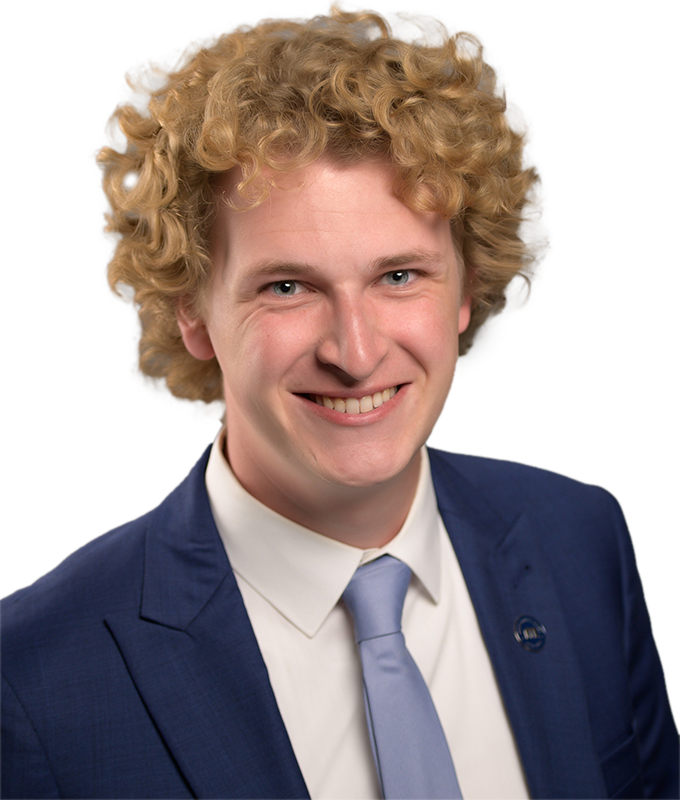
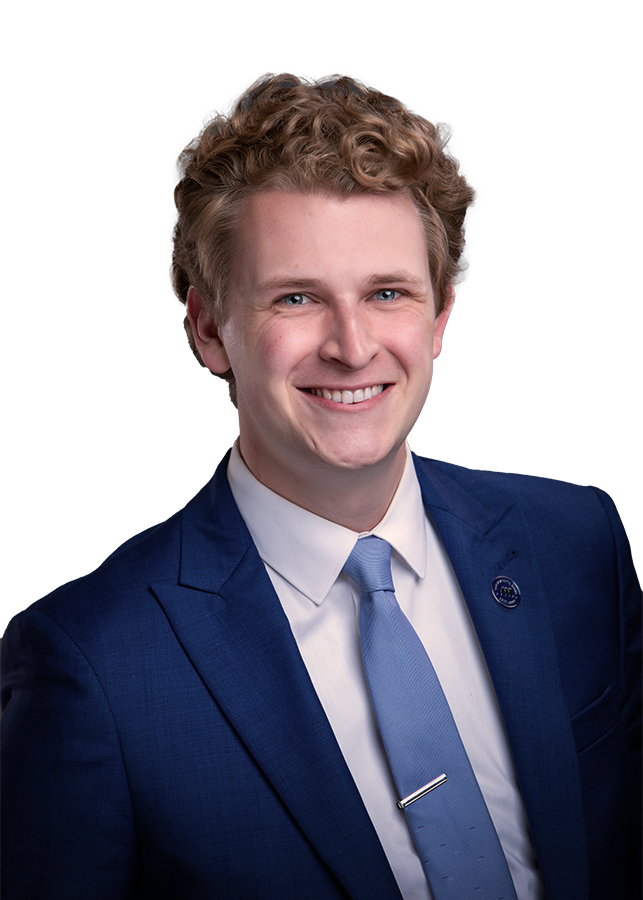
Updated some links and main image

diff --git a/archive-portfolio.html b/archive-portfolio.html
@@ -8,7 +8,7 @@
     <meta name="keywords" content="portfolio, agency, business, clean, company, corporate, creative, gallery, rtl, modern, photography, vue, vuejs, responsive, sass">
 
     <!-- title of the browser tab -->
-    <title>Nafie - HTML Portfolio Template</title>
+    <title>Jacob West Creative</title>
 
     <!-- favicon -->
     <link rel="icon" href="assets/favicon.ico">
@@ -16,7 +16,7 @@
     <!-- fonts -->
     <link rel="preconnect" href="https://fonts.googleapis.com">
     <link rel="preconnect" href="https://fonts.gstatic.com" crossorigin>
-    <link rel="stylesheet" href="https://fonts.googleapis.com/css2?family=Poppins:wght@700&family=Roboto&family=Saira+Stencil+One&text=Nafie&display=swap">
+    <link rel="stylesheet" href="https://fonts.googleapis.com/css2?family=Poppins:wght@700&family=Roboto&family=Saira+Stencil+One&display=swap">
 
     <!-- css libraries file -->
     <link rel="stylesheet" href="styles/libraries.min.css">
@@ -56,8 +56,8 @@
         }">
           <div class="container">
             <!-- logo -->
-            <div class="logo" title="Nafie">
-              <h1><a href="index.html">Nafie</a></h1>
+            <div class="logo" title="Jacob West Creative">
+              <h1><a href="index.html">Jacob West Creative</a></h1>
             </div>
 
             <!-- nav links -->
@@ -66,14 +66,14 @@
               <!-- nav menu links -->
               <ul class="nav-links">
                 <li v-for="link in navLinks" :key="link.url">
-                  <a :href="link.url" @click="closeNavMenu">
+                  <a :href="'/index.html' + link.url" @click="closeNavMenu">
                     {{ link.title.en }}
                   </a>
                 </li>
               </ul>
 
-              <!-- menu content in big devices (hidden in mobile/tablet) -->
-              <div class="desktop-menu-content" tabindex="-1">
+               <!-- menu content in big devices (hidden in mobile/tablet) -->
+               <div class="desktop-menu-content" tabindex="-1">
                 <div class="container">
 
                   <!-- about us -->
@@ -91,25 +91,23 @@
                     <li class="col-lg-4">
                       <h4 class="block-title">Email</h4>
                       <ul>
-                        <li><a href="mailto:info@nafie.com">info@nafie.com</a></li>
-                        <li><a href="mailto:support@nafie.com">support@nafie.com</a></li>
+                        <li><a href="mailto:westjacob1@gmail.com">westjacob1@gmail.com</a></li>
                       </ul>
                     </li>
                     <li class="col-lg-4">
                       <h4 class="block-title">Address</h4>
                       <ul>
                         <li>
-                          941 saqrqorish Road, alandalos,
+                          Black Hills, South Dakota
                           <br>
-                          grnata, wa 47122-4194
+                          USA
                         </li>
                       </ul>
                     </li>
                     <li class="col-lg-4">
                       <h4 class="block-title">Phone</h4>
                       <ul>
-                        <li><a href="tel:02966202290">(02) 966 202 290</a></li>
-                        <li><a href="tel:02966202291">(02) 966 202 291</a></li>
+                        <li><a href="tel:016052093466">+1 605 209 3466</a></li>
                       </ul>
                     </li>
                   </ul>
@@ -120,23 +118,6 @@
             <!-- options icons -->
             <ul class="options-icons">
 
-              <!-- lang switcher button -->
-              <li class="lang-switcher">
-                <ul class="lang-switcher-menu">
-                  <li class="menu-item menu-item-has-children">
-                    <a href="#">En</a>
-
-                    <ul class="sub-menu">
-                      <li class="menu-item">
-                        <a href="index.html">En</a>
-                      </li>
-                      <li class="menu-item">
-                        <a href="rtl-index.html">ع</a>
-                      </li>
-                    </ul>
-                  </li>
-                </ul>
-              </li>
 
               <!-- theme switcher button -->
               <li class="theme-switcher">
@@ -165,9 +146,9 @@
             <div class="section-title">
               <span class="subtitle">{{ portfolioArchiveName }}</span>
               <h2 class="title">
-                The latest projects in
+                Projects in the
                 <br>
-                {{ portfolioArchiveName }} taxonomy
+                {{ portfolioArchiveName }} category
               </h2>
             </div>
 

diff --git a/404.html b/404.html
@@ -16,7 +16,7 @@
     <!-- fonts -->
     <link rel="preconnect" href="https://fonts.googleapis.com">
     <link rel="preconnect" href="https://fonts.gstatic.com" crossorigin>
-    <link rel="stylesheet" href="https://fonts.googleapis.com/css2?family=Poppins:wght@700&family=Roboto&family=Saira+Stencil+One&text=Nafie&display=swap">
+    <link rel="stylesheet" href="https://fonts.googleapis.com/css2?family=Poppins:wght@700&family=Roboto&family=Saira+Stencil+One&display=swap">
 
     <!-- css libraries file -->
     <link rel="stylesheet" href="styles/libraries.min.css">
@@ -66,7 +66,7 @@
               <!-- nav menu links -->
               <ul class="nav-links">
                 <li v-for="link in navLinks" :key="link.url">
-                  <a :href="link.url" @click="closeNavMenu">
+                  <a :href="'/index.html' + link.url" @click="closeNavMenu">
                     {{ link.title.en }}
                   </a>
                 </li>

diff --git a/index.html b/index.html
@@ -16,7 +16,7 @@
     <!-- fonts -->
     <link rel="preconnect" href="https://fonts.googleapis.com">
     <link rel="preconnect" href="https://fonts.gstatic.com" crossorigin>
-    <link rel="stylesheet" href="https://fonts.googleapis.com/css2?family=Poppins:wght@700&family=Roboto&family=Saira+Stencil+One&text=Nafie&display=swap">
+    <link rel="stylesheet" href="https://fonts.googleapis.com/css2?family=Poppins:wght@700&family=Roboto&family=Saira+Stencil+One&display=swap">
 
     <!-- css libraries file -->
     <link rel="stylesheet" href="styles/libraries.min.css">

diff --git a/single-portfolio.html b/single-portfolio.html
@@ -16,7 +16,7 @@
     <!-- fonts -->
     <link rel="preconnect" href="https://fonts.googleapis.com">
     <link rel="preconnect" href="https://fonts.gstatic.com" crossorigin>
-    <link rel="stylesheet" href="https://fonts.googleapis.com/css2?family=Poppins:wght@700&family=Roboto&family=Saira+Stencil+One&text=Nafie&display=swap">
+    <link rel="stylesheet" href="https://fonts.googleapis.com/css2?family=Poppins:wght@700&family=Roboto&family=Saira+Stencil+One&display=swap">
 
     <!-- css libraries file -->
     <link rel="stylesheet" href="styles/libraries.min.css">

diff --git a/scripts/main.js b/scripts/main.js
@@ -188,7 +188,14 @@ const app = Vue.createApp({
           desc: {
             en: 'Graduated from South Dakota Mines May 2022'
           }
-        }, {}, {}, {}
+        }, {
+          date: '2022',
+          companyName: { en: 'Omnitech Inc.'},
+          jobTitle: { en: 'Sales'},
+          desc: {
+            en: 'Sales Engineer working on business development at Omnitech since June 2022 in the Black Hills.'
+          }
+        }, {}, {}
       ],
 
       // current page of portfolio items
